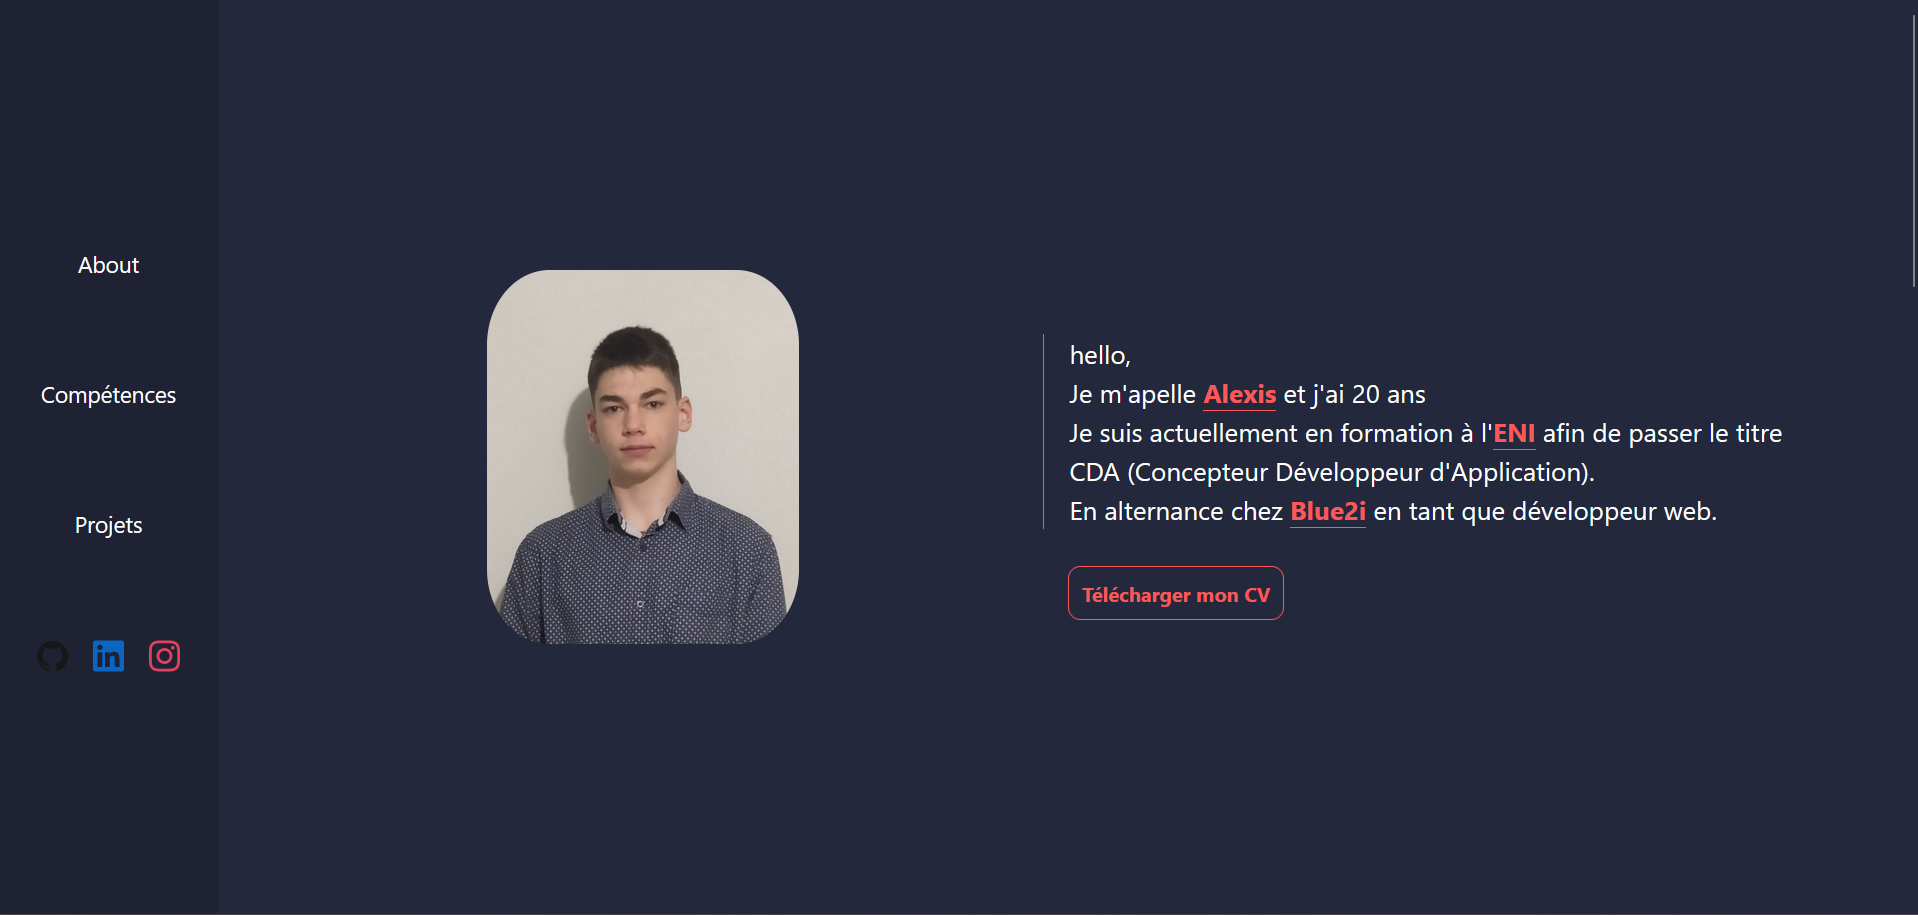
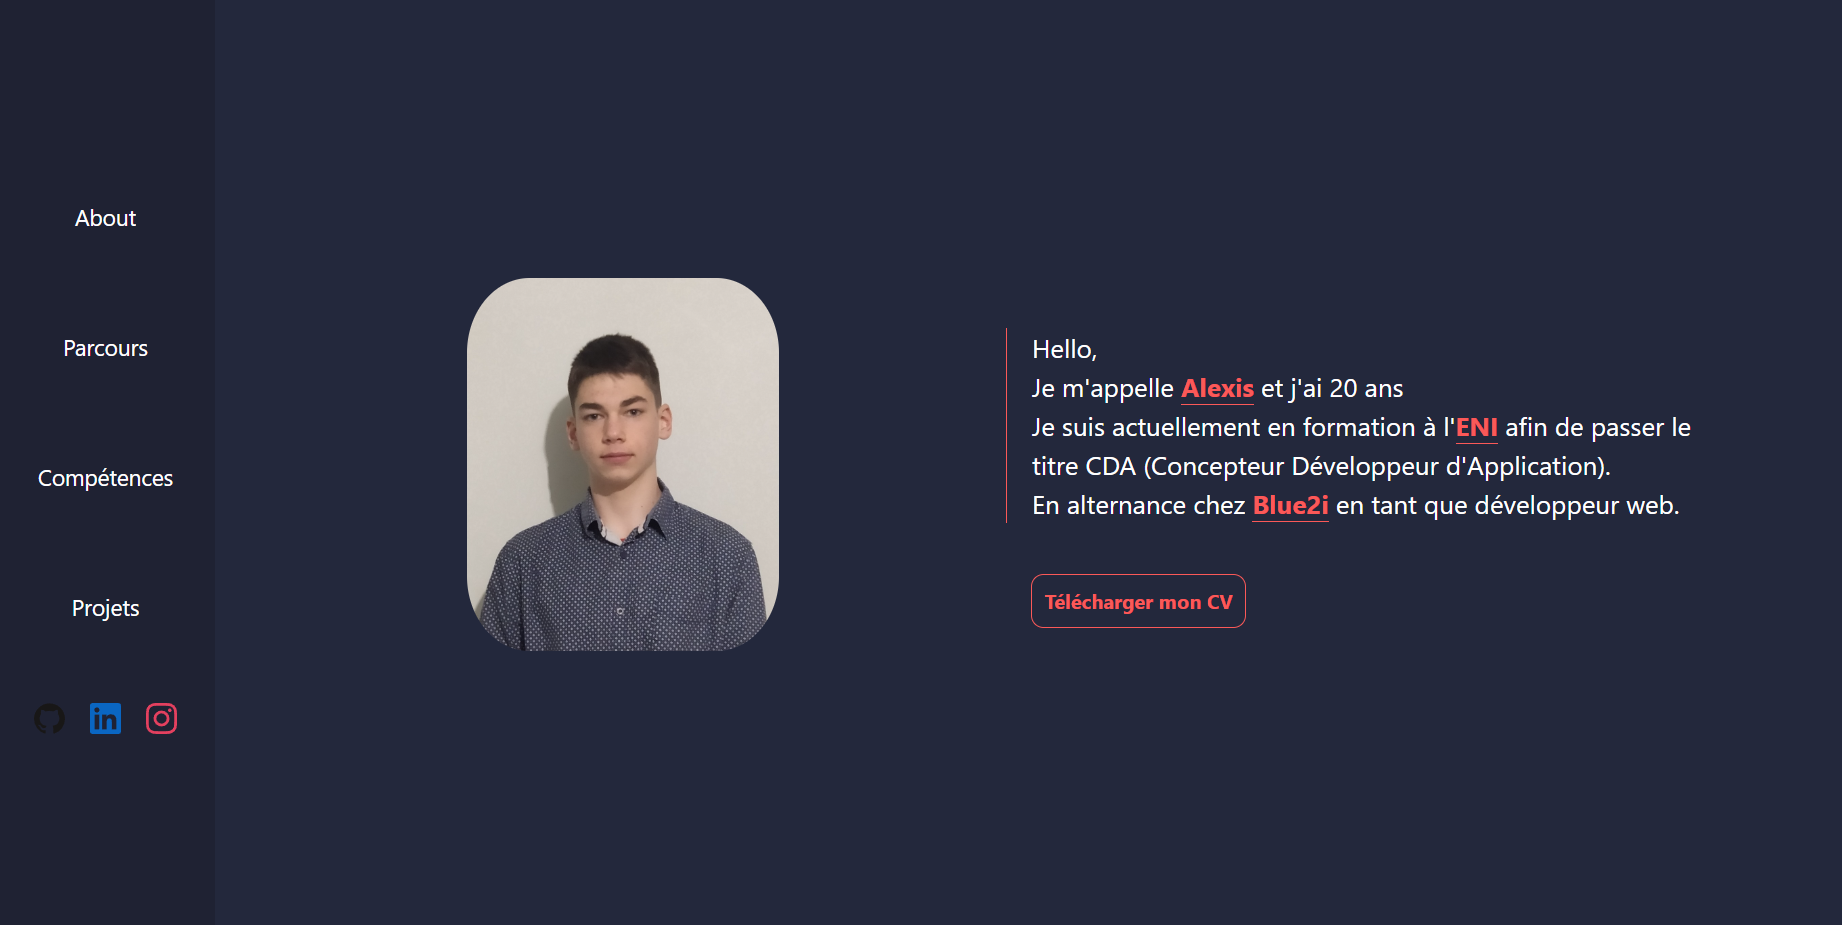
Readme

diff --git a/README.md b/README.md
@@ -1,70 +1,17 @@
-# Getting Started with Create React App
+# Portfolio de Alexis Rochefort
 
-This project was bootstrapped with [Create React App](https://github.com/facebook/create-react-app).
+Bienvenue sur mon portfolio personnel développé avec ReactJS. Ce portfolio vise à présenter mon parcours, mes compétences et mes projets.
 
-## Available Scripts
+## Aperçu
 
-In the project directory, you can run:
+![Accueil de mon portfolio](src/assets/images/projects/portfolio.png)
 
-### `npm start`
+## Technologies Utilisées
 
-Runs the app in the development mode.\
-Open [http://localhost:3000](http://localhost:3000) to view it in your browser.
+- ReactJS
+- HTML5, CSS3
+- [Autres technologies]
 
-The page will reload when you make changes.\
-You may also see any lint errors in the console.
+## Contact
 
-### `npm test`
-
-Launches the test runner in the interactive watch mode.\
-See the section about [running tests](https://facebook.github.io/create-react-app/docs/running-tests) for more information.
-
-### `npm run build`
-
-Builds the app for production to the `build` folder.\
-It correctly bundles React in production mode and optimizes the build for the best performance.
-
-The build is minified and the filenames include the hashes.\
-Your app is ready to be deployed!
-
-See the section about [deployment](https://facebook.github.io/create-react-app/docs/deployment) for more information.
-
-### `npm run eject`
-
-**Note: this is a one-way operation. Once you `eject`, you can't go back!**
-
-If you aren't satisfied with the build tool and configuration choices, you can `eject` at any time. This command will remove the single build dependency from your project.
-
-Instead, it will copy all the configuration files and the transitive dependencies (webpack, Babel, ESLint, etc) right into your project so you have full control over them. All of the commands except `eject` will still work, but they will point to the copied scripts so you can tweak them. At this point you're on your own.
-
-You don't have to ever use `eject`. The curated feature set is suitable for small and middle deployments, and you shouldn't feel obligated to use this feature. However we understand that this tool wouldn't be useful if you couldn't customize it when you are ready for it.
-
-## Learn More
-
-You can learn more in the [Create React App documentation](https://facebook.github.io/create-react-app/docs/getting-started).
-
-To learn React, check out the [React documentation](https://reactjs.org/).
-
-### Code Splitting
-
-This section has moved here: [https://facebook.github.io/create-react-app/docs/code-splitting](https://facebook.github.io/create-react-app/docs/code-splitting)
-
-### Analyzing the Bundle Size
-
-This section has moved here: [https://facebook.github.io/create-react-app/docs/analyzing-the-bundle-size](https://facebook.github.io/create-react-app/docs/analyzing-the-bundle-size)
-
-### Making a Progressive Web App
-
-This section has moved here: [https://facebook.github.io/create-react-app/docs/making-a-progressive-web-app](https://facebook.github.io/create-react-app/docs/making-a-progressive-web-app)
-
-### Advanced Configuration
-
-This section has moved here: [https://facebook.github.io/create-react-app/docs/advanced-configuration](https://facebook.github.io/create-react-app/docs/advanced-configuration)
-
-### Deployment
-
-This section has moved here: [https://facebook.github.io/create-react-app/docs/deployment](https://facebook.github.io/create-react-app/docs/deployment)
-
-### `npm run build` fails to minify
-
-This section has moved here: [https://facebook.github.io/create-react-app/docs/troubleshooting#npm-run-build-fails-to-minify](https://facebook.github.io/create-react-app/docs/troubleshooting#npm-run-build-fails-to-minify)
+N'hésitez pas à me contacter par [email](mailto:alexis.rochefort35@gmail.com) pour toute demande.
